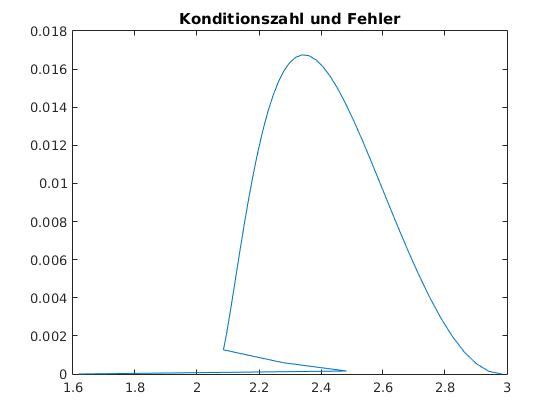
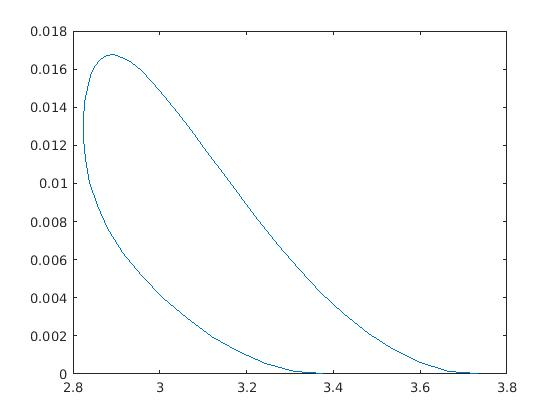
new numeric files

diff --git a/Numeric/Copy_of_TransformationObject.m b/Numeric/Copy_of_TransformationObject.m
@@ -1,4 +1,4 @@
-classdef TransformationObject < handle
+classdef Copy_of_TransformationObject < handle
     %TRANSFORMATIONOBJECT Summary of this class goes here
     %   Detailed explanation goes here
     
@@ -9,7 +9,6 @@ classdef TransformationObject < handle
         end_pt
         angles
         arms
-        
         original_pts       
         transformed_pts_tsp        
         transformed_pts_jsp
@@ -19,8 +18,6 @@ classdef TransformationObject < handle
         maxError
         original_pts_polar_phi
         original_pts_polar_r
-        dets
-        kond
         dets2
         kond2
     end
@@ -38,31 +35,29 @@ classdef TransformationObject < handle
         end
         function obj = toJSpace(obj)
             obj.original_pts = sample(obj.start_pt,obj.end_pt,-1,obj.sampleSize_1); %sample points from line
-            [obj.original_pts_polar_phi,obj.original_pts_polar_r] = cart2pol(obj.original_pts(1,:),(obj.original_pts(2,:)));
-            obj.transformed_pts_jsp = (transform(obj.original_pts, obj.angles,obj.arms)); %to joint space
+           % [obj.original_pts_polar_phi,obj.original_pts_polar_r] = cart2pol(obj.original_pts(1,:),(obj.original_pts(2,:)));
+            obj.transformed_pts_jsp = (Copy_of_transform(obj.original_pts, obj.angles,obj.arms)); %to joint space
             %berechne determinante von jacobi matrix mit werten(winkeln)
             %aus den spalten von pts_jsp
                       
         end
         function obj = trajGen(obj)
             %build trajectory from transformed points
-            obj.trajectory = (trajectory1(obj.transformed_pts_jsp,obj.sampleSize_2)); %in joint space
+            obj.trajectory = (Copy_of_trajectory1(obj.transformed_pts_jsp,obj.sampleSize_2)); %in joint space
             for p = 1:length(obj.trajectory)
-                point = obj.trajectory(:,p)
-                obj.dets2(p) = obj.arms(1)*obj.arms(2)*sin(point(1) + point(2))*cos(point(1)) - obj.arms(1)*obj.arms(2)*cos(point(1) + point(2))*sin(point(1))
-                [j,d] = jac(obj.arms(1),obj.arms(2),obj.arms(3),point(1),point(2),point(3));
-%                obj.dets2(p) = d;
+                point = obj.trajectory(:,p);
+                obj.dets2(p) = obj.arms(1)*obj.arms(2)*sin(point(1) + point(2))*cos(point(1)) - obj.arms(1)*obj.arms(2)*cos(point(1) + point(2))*sin(point(1));
+                [j,d] = Copy_of_jac(obj.arms(1),obj.arms(2),obj.arms(3),point(1),point(2),point(3));
                 if p==1
-                    def = obj.dets2(p)
+                    def = obj.dets2(p);
                 else
                  def = obj.dets2(p)-obj.dets2(p-1);
                 end
-            e = eig(j);
-            obj.kond2(p) = abs(double(max(e)))/abs(double(min(e)));
+            obj.kond2(p) = cond(j);
             end
         end
         function obj = toTSpace(obj)
-            obj.transformed_pts_tsp = retransform(obj.arms,obj.trajectory); %from joint space to 
+            obj.transformed_pts_tsp = Copy_of_retransform(obj.arms,obj.trajectory); %from joint space to 
         end
         function obj = computeError(obj)
             ori_pts = [];
@@ -88,22 +83,30 @@ classdef TransformationObject < handle
             hold on;
             plot(max_values, obj.maxError, 'd');
             str = strcat('Error (meanError=',num2str(double(obj.meanError)),')'); %double precision
+            xlabel('Samplingpunkte')
+            ylabel('Fehlergröße')
             title(ax1,str);
 
             ax2 = subplot(2,1,2);
             plot(obj.transformed_pts_tsp(1,:),obj.transformed_pts_tsp(2,:));
             hold on;
             plot(obj.original_pts(1,:),obj.original_pts(2,:));
-            title(ax2,'Original and Transformed Points');
+            xlabel('Weg in x-Richtung')
+            ylabel('Weg in y-Richtung')
+            title(ax2,'Originale und transformierte Punkte');
             hold off;
             
             %berechne determinante an max_values
             figure
             plot(obj.dets2, obj.error)
+            xlabel('Fehlergröße')
+            ylabel('Determinante')
             title('Determinanten und Fehler')
             
             figure
             plot(obj.kond2,obj.error)
+            xlabel('Fehlergröße')
+            ylabel('Konditionszahl')
             title('Konditionszahl und Fehler')
             
        end

diff --git a/Numeric/Copy_of_trajectory1.m b/Numeric/Copy_of_trajectory1.m
@@ -1,0 +1,32 @@
+function [ trajectory ] = Copy_of_trajectory1( joint_list ,sample_size )
+%UNTITLED einfach nur die punkte verbinden
+%   Detailed explanation goes here
+%   joint_list: {[gelenkstellungen für joint 1],[.. für joint 2],...[.. für
+%   joint n]}
+%   trajectory: {[mehr gelenkstellungen,gesamplet, für joint1],[..für joint
+%   2],[.. für joint n]}
+    joint_pts = size(joint_list,2);
+    num_joints = size(joint_list,1);
+    doublings = joint_pts-2;
+    all_el_with_dd = (joint_pts-1)*sample_size;
+    num_el = all_el_with_dd-doublings;
+   % trajectory = ones(num_joints,num_el)
+    for j = 1:num_joints
+        joint_movements = joint_list(j,:);
+        %joint list einträge sind im bereich -pi bis pi wenn das vorzeichen
+        %wechselt und ein Eintrag pi oder -pi ist, ist es also besser wenn
+        %dieser eintrag zu -pi oder pi wird
+        %for numeric variables
+        if(abs(joint_movements(end)-joint_movements(1))> pi)
+            if(abs(wrapTo2Pi(joint_movements(end))-joint_movements(1))<pi)
+                joint_movements(end) = wrapTo2Pi(joint_movements(end))
+            else
+                joint_movements(1) = wrapTo2Pi(joint_movements(1))
+            end
+        end
+        sample_list = sample_multiple(joint_movements,sample_size);
+        trajectory(j,:)= (sample_list);
+    end
+        
+
+end

diff --git a/Numeric/Copy_of_ikin.m b/Numeric/Copy_of_ikin.m
@@ -1,0 +1,30 @@
+function [theta,theta2] = ikin(ox,oy,omega,length) %annahme - ox und oy sind an der base 0
+%berechnet inverse kinematik nur für einen RRR-Roboter
+%ox,oy, Koordinaten des Greifers
+%omega-Rotation des Greifers, hier Winkel zur x-Achse
+%length- armlängen
+%output: beide Gelenkstellungen, die möglich sind (righty lefty solution)
+
+%vpa increased variable precision (symbolic math toolbox) -default
+%precision 32 digits
+% ox = vpa(ox)
+% oy = vpa(oy)
+% omega = vpa(omega)
+% length = vpa(length)
+ox = sym(ox);
+oy = sym(oy);
+omega = sym(omega);
+length = sym(length);
+o_wrist = [ox-length(3)*cos(omega);oy-length(3)*sin(omega);0];
+l = sqrt(o_wrist(1)^2+o_wrist(2)^2);
+stuff = (l^2-length(1)^2-length(2)^2)/(2*length(1)*length(2));
+theta(2) = atan2(real(sqrt(1-stuff^2)),stuff);
+theta2(2) = atan2(real(-sqrt(1-stuff^2)),stuff); 
+IN = atan2(length(2)*sin(theta(2)),length(1)+length(2)*cos(theta(2))); 
+OUT = atan2(o_wrist(2),o_wrist(1));
+IN2 = atan2(length(2)*sin(theta2(2)),length(1)+length(2)*cos(theta2(2))); 
+theta(1) = -IN+OUT ; %IN, IN2 negativ 
+theta2(1) = -IN2+OUT;
+theta(3) = omega-(theta(1)+theta(2));
+theta2(3) = omega -(theta2(1)+theta2(2));
+end

diff --git a/Numeric/Copy_of_sample_multiple.m b/Numeric/Copy_of_sample_multiple.m
@@ -1,0 +1,21 @@
+function [ sample_list ] = Copy_of_sample_multiple( point_list,insert_number )
+%SAMPLEMULTIPLE Erzeugt einen Zeilenvektor mit 'insert_number'-vielen
+%   Zwischenpunkten zwischen je zwei Punkten aus 'point_list'.
+%   
+%   SL = sampleMultiple(PL,0) gibt Kopie der ursprünglichen Liste
+%   zurück.(dann muss bei aufeinanderfolgenden Punkten mit 2
+%   gesamplet werden)
+%   SL = sampleMultiple(PL,1) gibt Liste zurück, bei der n-1 Punkte
+%   eingefügt wurden. (Ein Punkt wurde hinter jedem Punkt außer dem letzten
+%   eingefügt.)(dann muss mit 3 gesampelt werden)
+
+
+    sample_list = point_list(1);
+        for i = 1:size(point_list,2)-1
+            samp = Copy_of_sample(point_list(i),point_list(i+1),-1,insert_number+2);
+            samp(1) =  [];
+            sample_list = [sample_list,samp];            
+        end
+
+end
+

diff --git a/Numeric/Copy_of_jac.m b/Numeric/Copy_of_jac.m
@@ -1,0 +1,15 @@
+function [ jacobi_matrix, determinante ] = jac( length1 ,length2,length3,theta1,theta2,theta3 )
+%JAC Summary of this function goes here
+%   gibt für eine Konfiguration an einem Punkt des workspaces die jakobi
+%   matrix und ihre determinante zurück
+%   Detailed explanation goes here
+jacobi_matrix = [ - length2*sin(theta1 + theta2) - length1*sin(theta1) - length3*sin(theta1 + theta2 + theta3), ...
+    - length2*sin(theta1 + theta2) - length3*sin(theta1 + theta2 + theta3), ...
+    -length3*sin(theta1 + theta2 + theta3);
+   length2*cos(theta1 + theta2) + length1*cos(theta1) + length3*cos(theta1 + theta2 + theta3), ...
+   length2*cos(theta1 + theta2) + length3*cos(theta1 + theta2 + theta3), ...
+   length3*cos(theta1 + theta2 + theta3);
+   1,1,1];
+determinante = det(jacobi_matrix)
+end
+

diff --git a/Numeric/Copy_of_algorithm.m b/Numeric/Copy_of_algorithm.m
@@ -2,9 +2,9 @@ error = 0.001;
 sSize1 = 2; % gibt an, wieviele Punkte der Linie im kartesischen Raum ausgewählt werden
 sSize2 = 40; % gibt an wie viele Zwischenpunkte zwischen jedem Punkt eingefügt werden
 angles_ori = zeros(1,sSize1);
-angles = sample_multiple(angles_ori,0);
+angles = Copy_of_sample_multiple(angles_ori,0);
 while(1)
-t_obj = TransformationObject([0;1],[0;0],sSize1, sSize2, angles,[1,1,1]);
+t_obj = Copy_of_TransformationObject([0;1],[0;0],sSize1, sSize2, angles,[1,1,1]);
 t_obj.toJSpace()
 t_obj.trajGen()
 t_obj.toTSpace()
@@ -13,6 +13,6 @@ t_obj.plot()
 if(t_obj.maxError <= error)
     break
 end
-angles = sample_multiple(angles, 1);
+angles = Copy_of_sample_multiple(angles, 1);
 sSize1 = size(angles,2);
 end

diff --git a/Numeric/Copy_of_sample.m b/Numeric/Copy_of_sample.m
@@ -1,0 +1,16 @@
+function [ points ] = Copy_of_sample( start_pt, end_pt, distance, point_number )
+% SAMPLE Sampelt 'point-number'-viele Punkte mit gleichem Abstand zwischen
+%   start_pt und end_pt.
+%
+%   Dabei werden Startpunkt und Endpunkt mitgezählt. Bei vier Argumenten
+%   wird 'distance' nicht beachtet, bei drei Argumenten wird aus ihr eine
+%   'point_number' berechnet.
+
+    if nargin < 4
+        point_number = 1/distance*norm(end_pt-start_pt)+1; %distance im raum
+    end
+    direction = end_pt - start_pt;
+    points = repmat(start_pt,1,point_number) + direction * linspace(0,1,point_number);
+
+end
+

diff --git a/Numeric/Copy_of_retransform.m b/Numeric/Copy_of_retransform.m
@@ -1,0 +1,16 @@
+function [ rt_vec ] = Copy_of_retransform(arms,joints)
+%UNTITLED2 Summary of this function goes joint:matrix mit pro reihe die stellungen für einen punkt 
+% output: rt_vec mit pro eintrag sind die koordinaten des punktes und der
+% winkel
+%   Detailed explanation goes here
+    joint_pts = size(joints,2);
+    num_joints = size(arms,2);
+    rt_vec = []
+    for j = 1:joint_pts
+        pose = joints(:,j) %j-te spalte  
+        fki = fkin2(arms,pose);
+        rt_vec(:,j) = fki;
+       
+    end
+end
+

diff --git a/Numeric/Copy_of_fkin2.m b/Numeric/Copy_of_fkin2.m
@@ -1,0 +1,10 @@
+function sol = fkin2(length,theta)
+length = sym(length)
+theta = sym(theta)
+%vpa variable precision arithmetic - if at least one input uses it, all
+%others also use it
+sol(1) = (length(1))*cos(theta(1))+length(2)*cos(theta(1)+theta(2))+length(3)*cos(theta(1)+theta(2)+theta(3));
+sol(2) = (length(1))*sin(theta(1))+length(2)*sin(theta(1)+theta(2))+length(3)*sin(theta(1)+theta(2)+theta(3));
+sol(3) = wrapToPi((theta(1))+theta(2)+theta(3));
+
+

diff --git a/Numeric/Copy_of_transform.m b/Numeric/Copy_of_transform.m
@@ -1,0 +1,16 @@
+function [ t_vec ] = Copy_of_transform( points, angles,length )
+% Inverse Kinematik von mehreren Punkten
+% erzeugt von jedem Punkt aus points die dazu notwendige Gelenkstellung
+% (als tripel)
+
+t_vec = (ones(3,size(angles,2)));
+
+for i = 1:size(angles,2)
+    iki = Copy_of_ikin(points(1,i),points(2,i),angles(i),length);
+
+    t_vec(1,i) =(iki(1));
+    t_vec(2,i) = (iki(2));
+    t_vec(3,i) = (iki(3));
+end
+end
+
